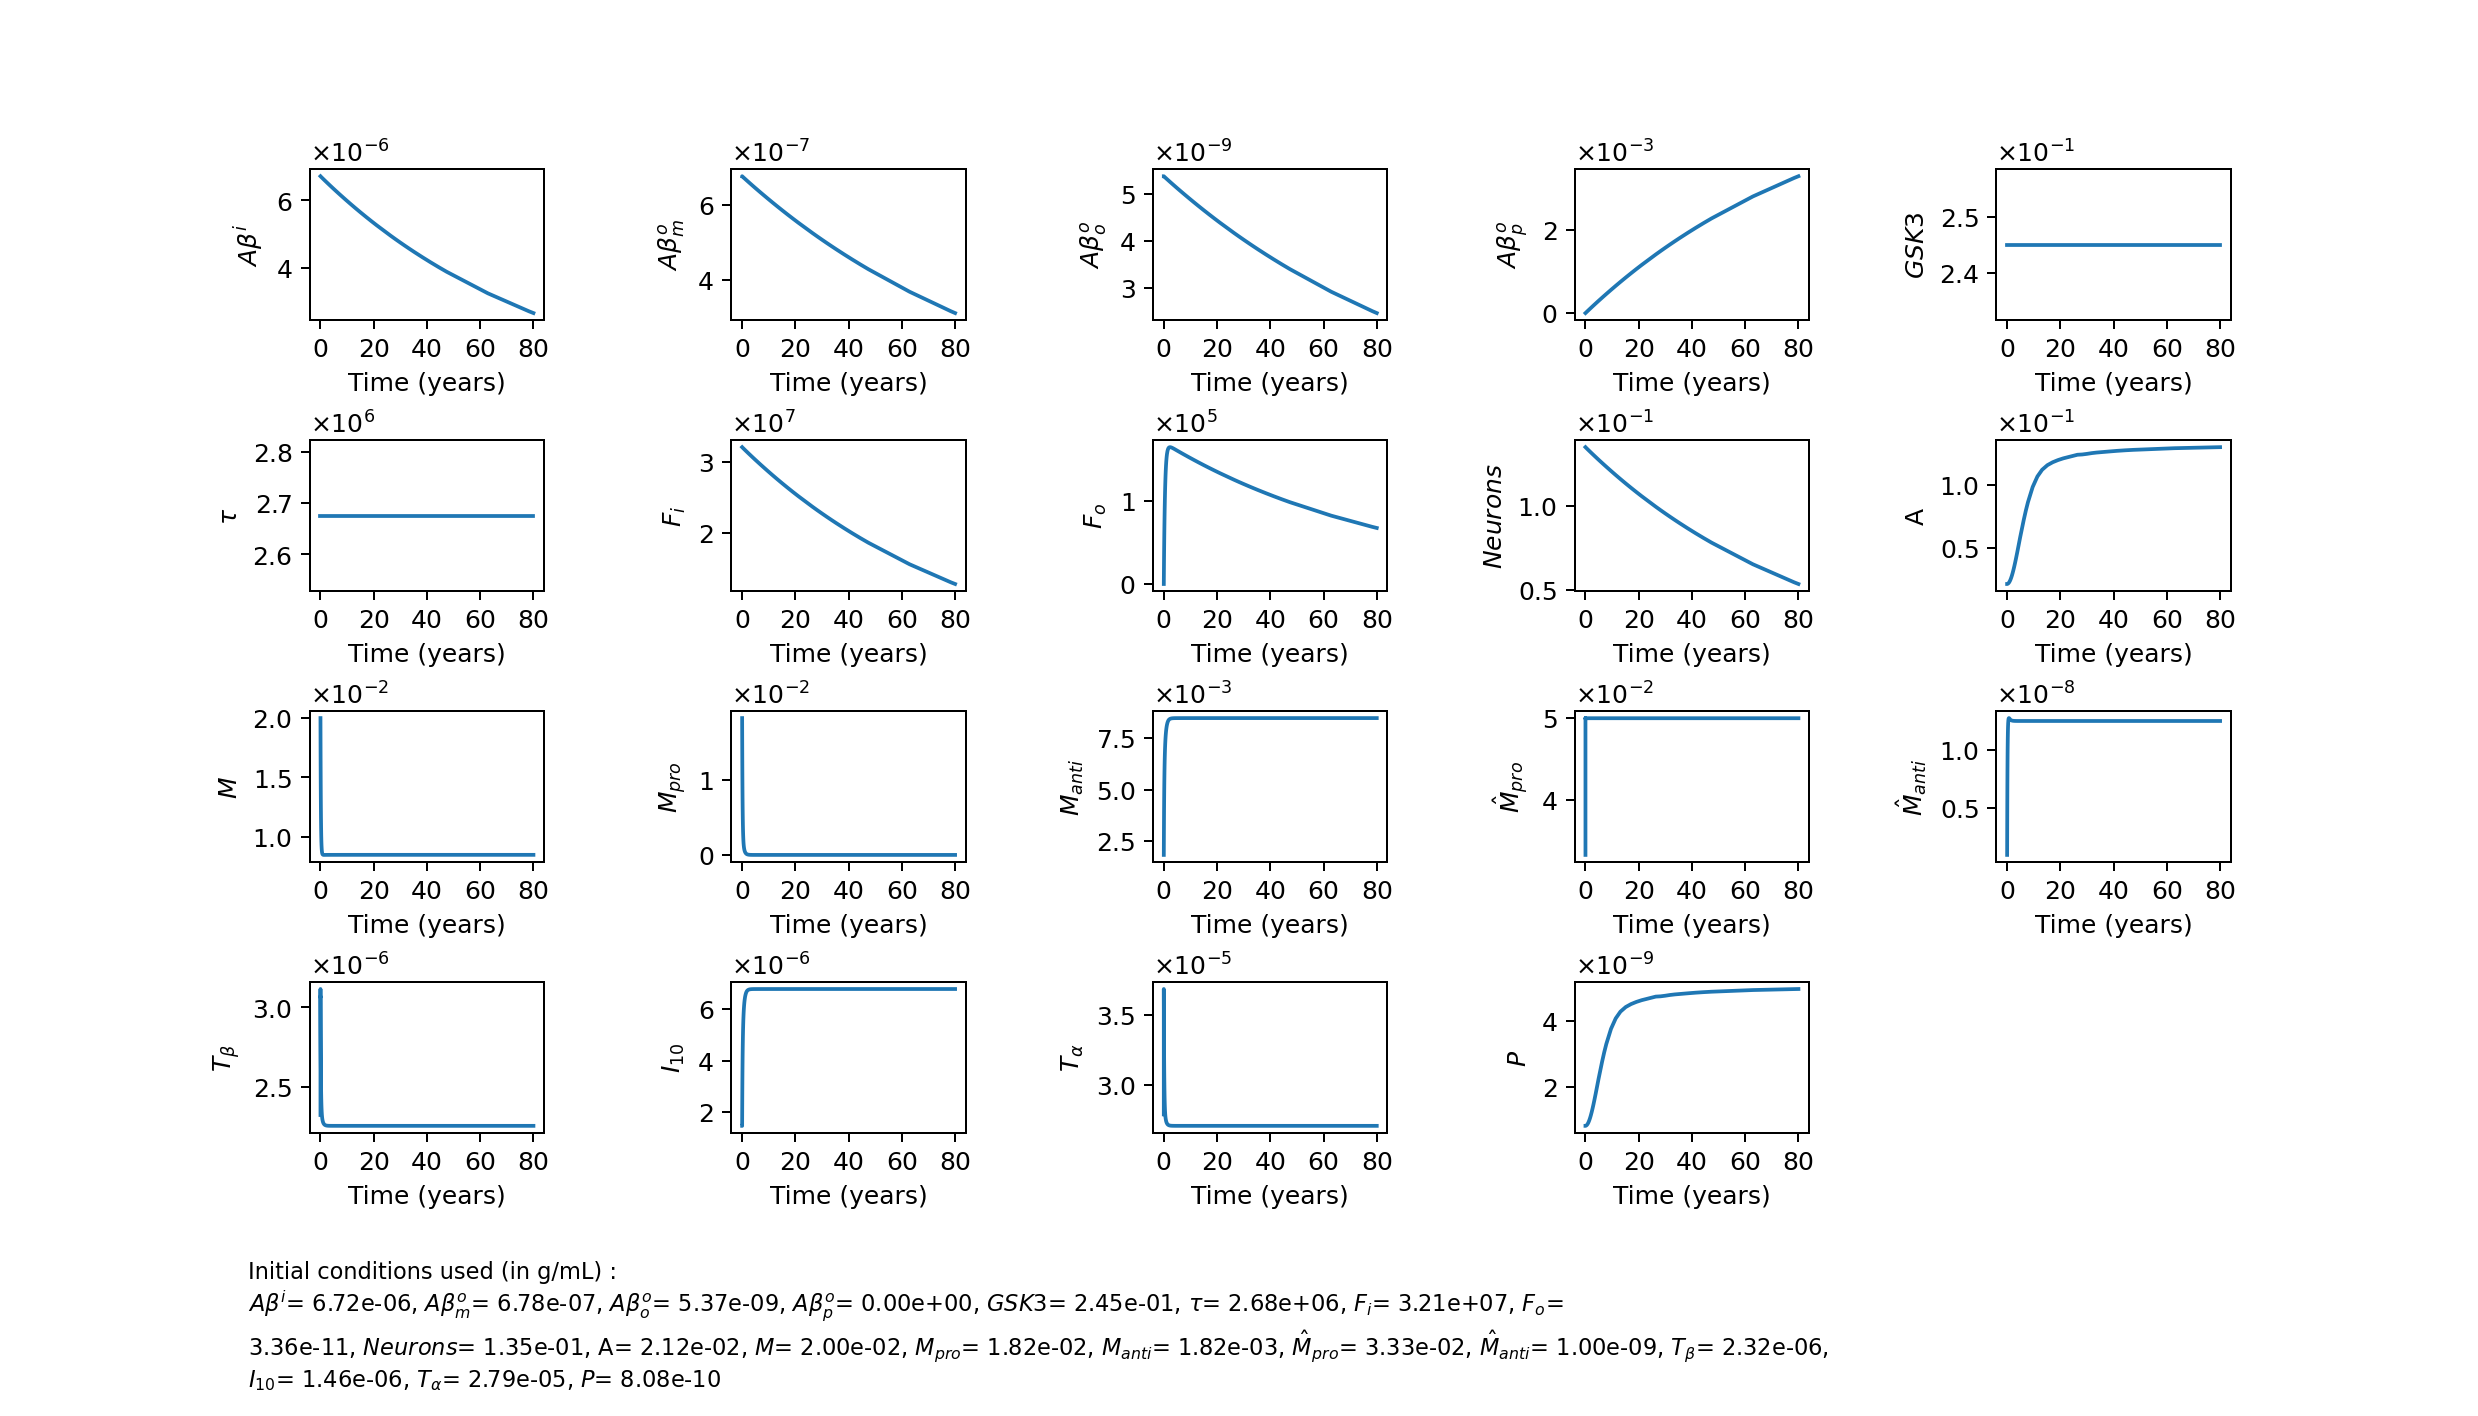
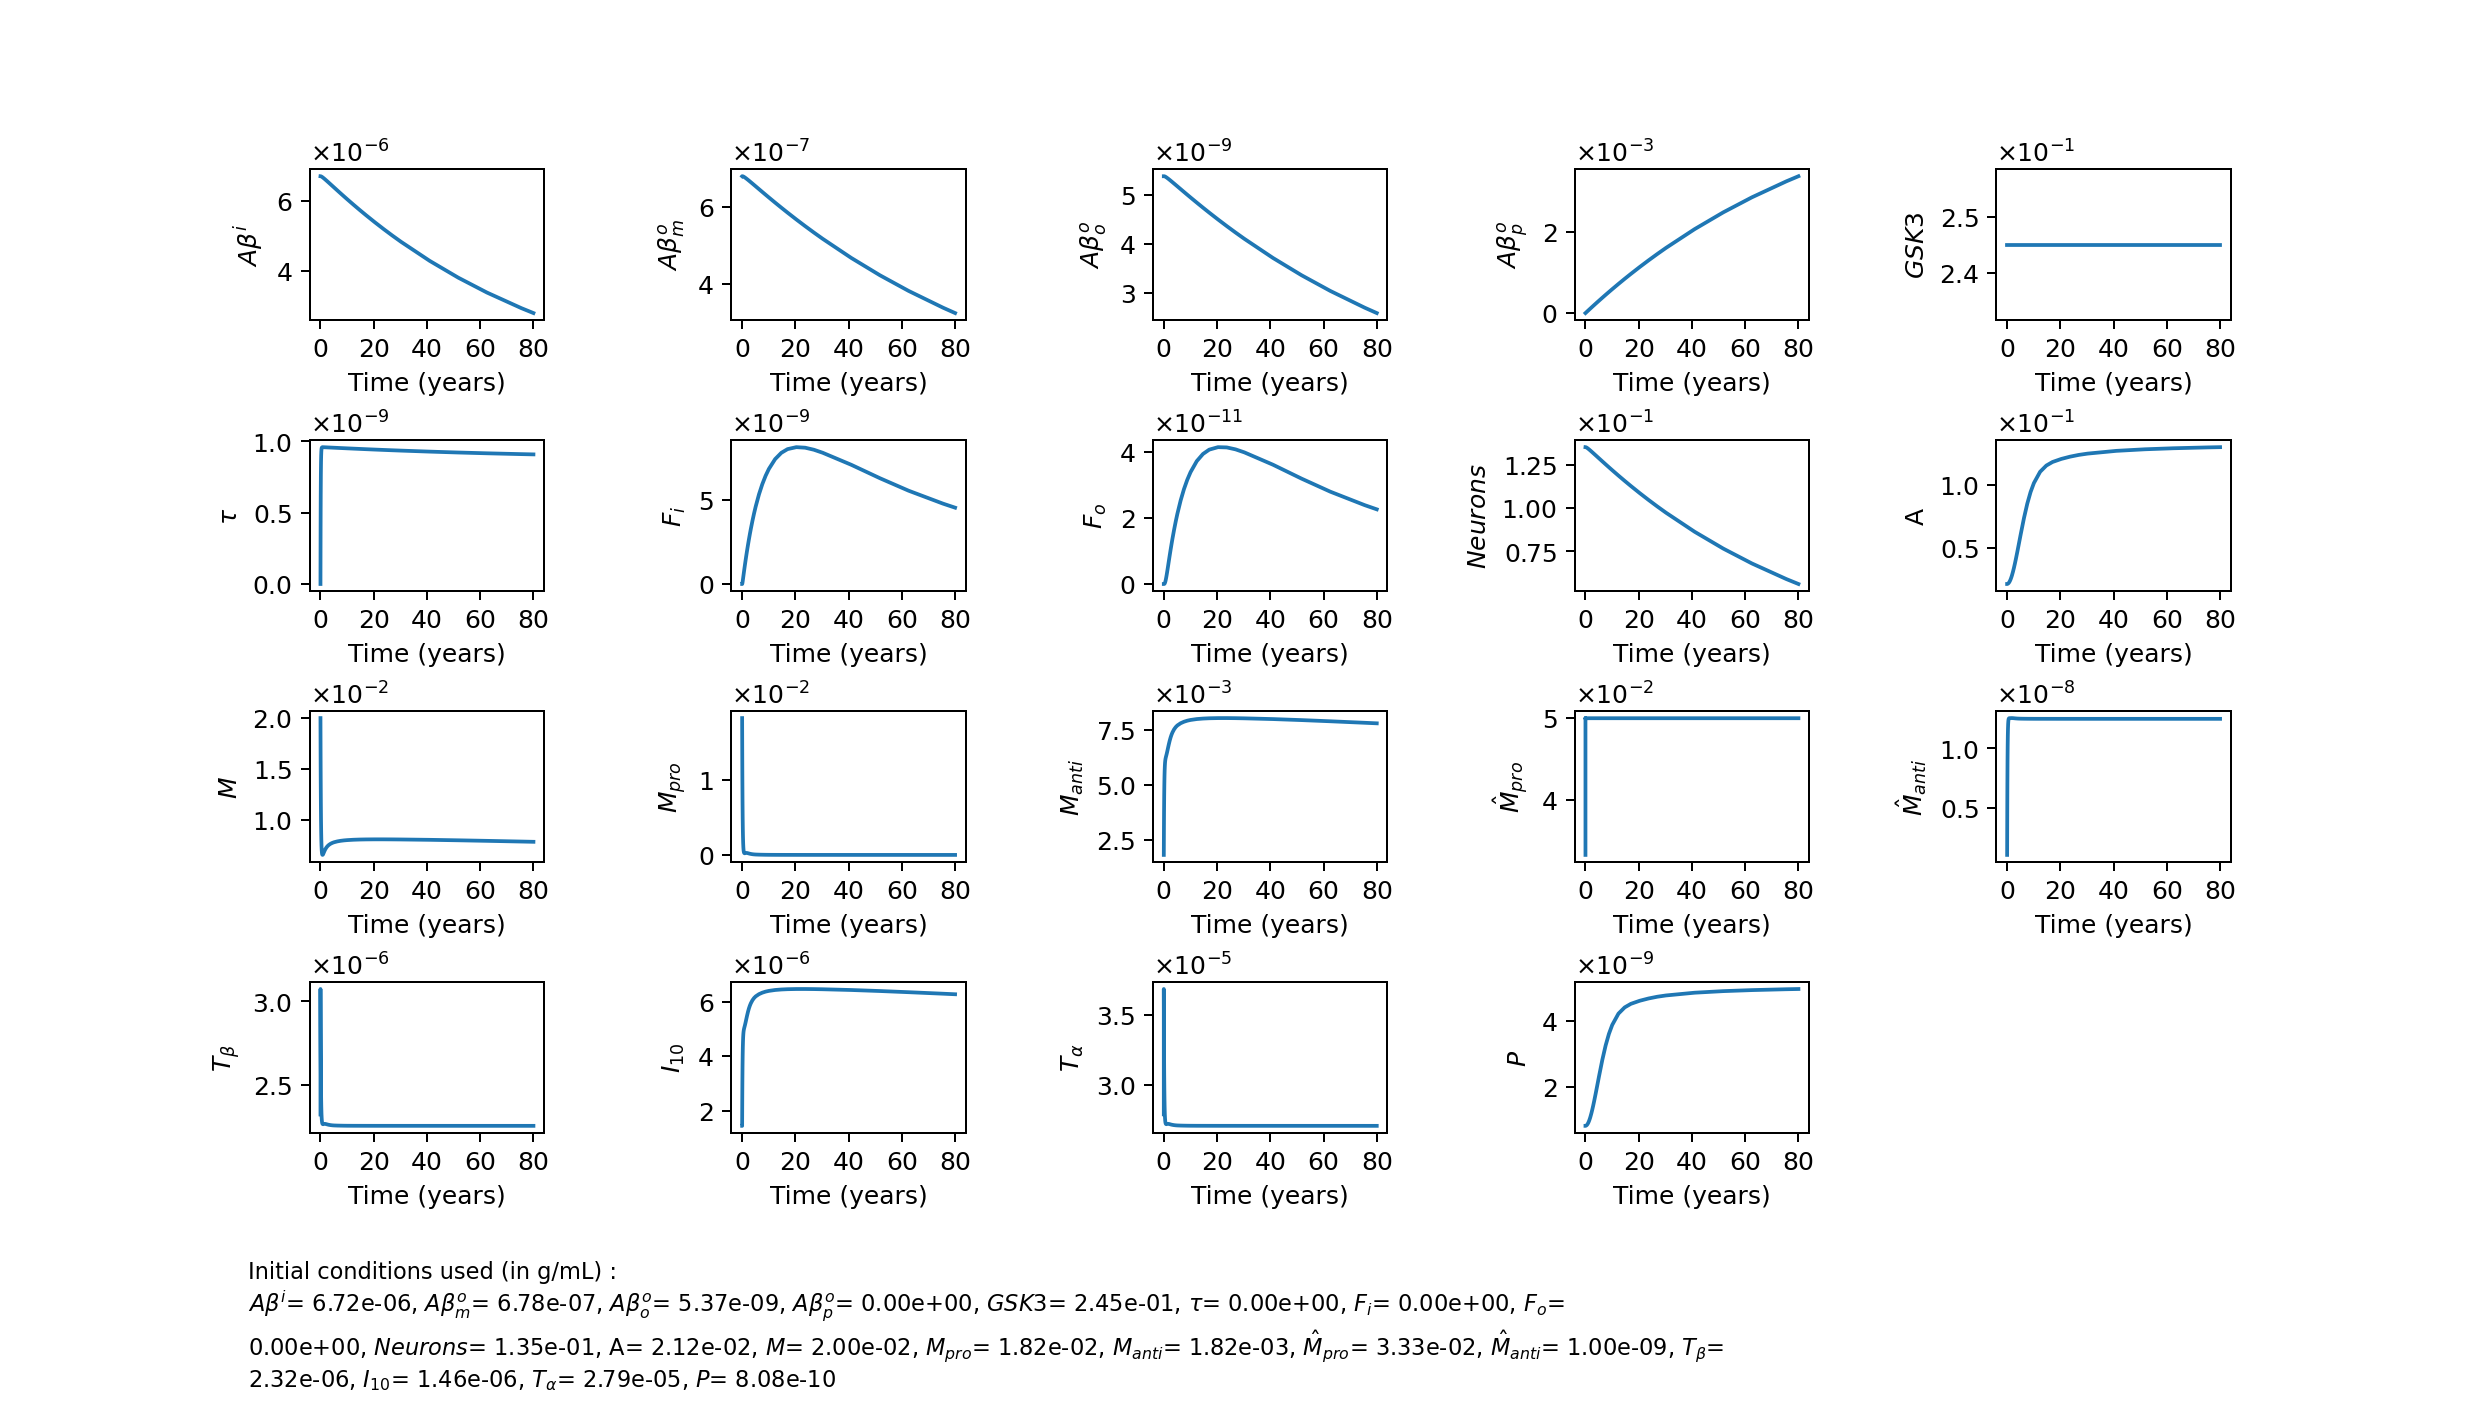
Post-rencontre 1er avril

diff --git a/parameters.py b/parameters.py
@@ -163,6 +163,9 @@ class Parameters():
         to Amyloid-Beta plaque outside."""
         # = (Rate with APOE / self.kappa_ABooABpo) - 1
 
+        self.d_ABoo = (1 / 10) * self.d_ABi  # = 0.1 * 1.76
+        """Degradation rate of Amyloid Beta42 oligomer outside (/day) [~Computation method of Hao]"""
+
         # self.theta =  0.9
         # """Relative clearance power of amyloid-beta by M_anti compared to M_pro [Value from Hao]"""
 
@@ -179,15 +182,12 @@ class Parameters():
 
         self.d_MproABpo = (1 / 80) * self.d_MprohatABpo
         """Degradation rate of Amyloid Beta42 plaque outside by proinflammatory microglias (M_pro) (/day).\n
-        Microgia are 80x slower than macrophage to degrade amyloid-beta plques."""
+        Microglia are 80x slower than macrophage to degrade amyloid-beta plaques."""
 
         self.K_ABpo = 7e-3
         """Concentration of Amyloid Beta42 plaque outside at which the destruction of AB_p^o by M_pro, M_anti and M_anti^hat 
         rate is half maximal (Michaelis-Menten constant) (g/mL) \n 
         [Value of Hao] : self.K_ABpo = 10**(3) * self.ABo = 10**(3) * 7*10**(-6) = 7 * 10**(-3) """
-
-        self.d_ABoo = (1 / 10) * self.d_ABi  # = 0.1 * 1.76
-        """Degradation rate of Amyloid Beta42 oligomer outside (/day) [~Computation method of Hao]"""
 
         ########################################
         # CONSTANTS FOR THE EQUATION FOR GSK-3 #
@@ -223,9 +223,8 @@ class Parameters():
             tauhalf : The half-life of tau proteins in humain = 23 days [Sato18]"""
         # Hao : 0.277/day (half-live = 60h)
 
-        self.lambda_Gtau = 0.25 / 3.1e-6
-        """Creation rate of tau by GSK3 (g/mL/day)\n
-        0.25 est une valeur posée par Seyed."""
+        self.lambda_Gtau = 26.3e-12
+        """Creation rate of tau by GSK3 (g/mL/day)"""
         # TODO Revoir valeur
 
         self.G_0 = (self.lambda_InsG * (self.Ins / self.Ins_0))/self.d_G
@@ -234,12 +233,12 @@ class Parameters():
         # TODO Revoir valeur
         #  2.45e-1 est la valeur approximative obtenue pour G_0 (3.1e-6 est l'ancienne cond init de GSK-3)
 
+        ############################################
+        # CONSTANTS FOR THE EQUATION FOR F_o & F_i #
+        ############################################
+
         self.d_Fi = 1.0e-2 * self.d_tau
         """Degradation rate of intracellular NFT (/day) [Computation method of Hao]"""
-
-        ######################################
-        # CONSTANTS FOR THE EQUATION FOR F_o #
-        ######################################
 
         self.d_Fo = 1/5 * self.d_tau  # 1.0e-1 * self.d_tau
         """Degradation rate of extracellular NFT (/day) [Computation method of Hao].\n
@@ -295,16 +294,17 @@ class Parameters():
 
         # TODO: Revoir. He puts : (0.015 * 0.047 - 2e-2 * 1.0e-11) / 1.0e-6 = 705 ; pk? Non...
         #  La valeur de Hao (qui était pour ABO...) = 2.3e-3 /day
-        self.lambda_ABpoM = 2.3e-3  # Diminuer la valeur ne semble pas avoir bcp d'impact.
-        """Creation rate of microglias by Amyloid Beta42 plaque outside (/day). 
+        self.kappa_ABooM = 2.3e-3  # Diminuer la valeur ne semble pas avoir bcp d'impact.
+        """Creation rate of microglias by Amyloid Beta42 oligomer outside (/day). 
         Devrait être en g/mL/day pour que le terme ait les bonnes unitées."""  # TODO Unitées (Si reste en /day => kappa)
 
-        self.K_ABpoM = 1e-7
-        """Concentration of Amyloid Beta42 plaque outside at which the creation rate of M by AB_p^o is half maximal 
+        self.K_ABooM = 1e-7
+        """Concentration of Amyloid Beta42 oligomer outside at which the creation rate of M by AB_o^o is half maximal 
         (g/mL) [I take the value in Hao K_{A_O}]."""
 
         self.d_M = 0.015
-        """Degradation rate of microglias (/day) [Here he takes it equal to the death rate of M_pro and M_anti from Hao]"""
+        """Degradation rate of microglias (/day) 
+        [Here we take it equal to the death rate of M_pro and M_anti from Hao]"""
 
         ###################################################
         # CONSTANTS FOR THE EQUATION FOR M_pro AND M_anti #

diff --git a/equations.py b/equations.py
@@ -18,7 +18,7 @@ def ODEsystem(t, y):
         y[1]   Amyloid-beta monomer outside the neurons
         y[2]   Amyloid-beta oligomers outside
         y[3]   Amyloid-beta plaque outside the neurons
-        y[4]   GSK3
+        y[4]   GSK-3
         y[5]   tau proteins
         y[6]   F_i (NFT inside the neurons)
         y[7]   F_o (NFT outside the neurons)
@@ -69,7 +69,6 @@ def ODEsystem(t, y):
     dydt[6] = p.kappa_tauFi * y[5] * (y[8] / p.N_0) - p.d_Fi * y[6] - (y[6] / y[8]) * abs(dydt[8])
 
     # NFT outside the neurons (F_o)
-    # Avant: = (y[6] / p.N_0) * abs(dydt[8]) - p.d_Fo * y[7]
     dydt[7] = (y[6] / y[8]) * abs(dydt[8]) - p.d_Fo * y[7]
 
     # Astrocytes (A)
@@ -81,24 +80,23 @@ def ODEsystem(t, y):
     # TODO:
     #  Dans Hao, ajout en fonction de ABO et non AB_out (ici plaque). Peut-être changer y[3] -> y[2]?
     #  Mais revoir comment arranger les unitées/termes pour que être certain que les deux premiers termes fonctionnent.
+    # dydt[10] = p.kappa_FoM * (y[7] / (y[7] + p.K_Fo)) * (p.M_max - y[10]) \
+    #            + p.lambda_ABpoM * (y[3] / (y[3] + p.K_ABpoM)) * (p.M_max - y[10]) - p.d_M * y[10]
     dydt[10] = p.kappa_FoM * (y[7] / (y[7] + p.K_Fo)) * (p.M_max - y[10]) \
-               + p.lambda_ABpoM * (y[3] / (y[3] + p.K_ABpoM)) * (p.M_max - y[10]) - p.d_M * y[10]
+               + p.kappa_ABooM * (y[2] / (y[2] + p.K_ABooM)) * (p.M_max - y[10]) - p.d_M * y[10]
 
     # Proinflammatory microglia (M_pro)
-    # TODO: Revoir modif. Retiré "- p.d_Mpro * y[11]", car déjà pris en compte dans l'eq pour M
-    #  Ajout terme conversion Mpro -> Manti
-    #  Modif "+ y[10] * (p.beta / (p.beta + 1)) * p.lambda_MMpro" par "+ dydt[10] * (p.beta / (p.beta + 1))" probleme
-    #  potentiel si Neurons (donc F_o, donc M) diminu trop rapidement (changement fait à partir de fig _17)
+    # TODO: Revoir modif.
+    #  "+ y[10] * (p.beta / (p.beta + 1)) * p.lambda_MMpro" par "+ dydt[10] * (p.beta / (p.beta + 1))" probleme
+    #  potentiel si Neurons (donc F_o, donc M) diminue trop rapidement (changement fait à partir de fig _17)
     dydt[11] = dydt[10] * (p.beta / (p.beta + 1)) - p.kappa_TBManti * (y[15] / (y[15] + p.K_TB)) * y[11]
 
     # Anti-inflammatory microglia (M_anti)
     # TODO: Revoir modif. Retiré "- p.d_Manti * y[12]", car déjà pris en compte dans l'eqn pour M
     #  Modif terme conversion Mpro -> Manti : "+ p.lambda_TBManti * y[15]" -> celui de Hao (fait + de sens)
     #  Modif "+ y[10] * (1 / (p.beta + 1)) * p.lambda_MMpro" par "+ dydt[10] * (1 / (p.beta + 1))" problème potentiel si
-    #   Neurons (donc F_o, donc M) diminu trop rapidement (changement fait à partir de fig _17)
+    #   Neurons (donc F_o, donc M) diminue trop rapidement (changement fait à partir de fig _17)
     dydt[12] = dydt[10] * (1 / (p.beta + 1)) + p.kappa_TBManti * (y[15] / (y[15] + p.K_TB)) * y[11]
-
-    # Avec modif faites sur eqns ci-avant, rendue à graph ...ModifEqns_8
 
     # Proinflammatory macrophages (M_pro^hat)
     # TODO: Thèse : Dit que la forme serait la même que dans Hao, mais pas vraiment. Le premier terme devrait être en

diff --git a/main.py b/main.py
@@ -33,15 +33,17 @@ y0[4] = (p.lambda_InsG * (p.Ins / p.Ins_0))/p.d_G  # = 3.1e-6
 # Seyed : 0, mais fait choc à cause du terme "p.lambda_ABiG * y[0]" où p.lambda_ABiG = 0.25
 
 # tau (tau proteins)
-y0[5] = (p.lambda_tau + p.lambda_Gtau)/p.d_tau
+# y0[5] = (p.lambda_tau + p.lambda_Gtau)/p.d_tau
+y0[5] = 0
 # (p.lambda_tau + p.lambda_Gtau * (y0[4] / p.G_0))/p.d_tau => avant fig _39
 # = 2.57e-5    # Hao: Concentration of tau proteins is, in health, 137 pg/ml and, in AD, 490 pg/ml
 
 # F_i (NFT inside the neurons)
-y0[6] = p.kappa_tauFi * y0[5] / p.d_Fi  # 3.36e-10
+# y0[6] = p.kappa_tauFi * y0[5] / p.d_Fi
+y0[6] = 0
 
 # F_o (NFT outside the neurons)
-y0[7] = 3.36e-11
+y0[7] = 0
 
 # N (Living neurons)
 y0[8] = p.N_0
@@ -55,7 +57,7 @@ Q = (p.kappa_ABpoA * y0[3] + p.kappa_TaA * T_alpha_0)
 y0[9] = (Q * p.A_max) / (Q + p.d_A)
 
 # M (Microglia)
-y0[10] = 0.02
+y0[10] = 0
 # TODO : Seyed: 0.02 vs Hao: 0.047.
 
 # M_pro (Proinflammatory microglia)
@@ -131,7 +133,7 @@ plt.text(0.1, 0.11, initcond, fontsize=9, ha='left', va='top', transform=plt.gcf
 
 # Save the plot as a .png file
 my_path = os.path.abspath('Figures')
-plt.savefig(os.path.join(my_path, "Figure_" + method + "_" + str(annees) + "y_ModifEqns_44.png"), dpi=180)
+plt.savefig(os.path.join(my_path, "Figure_" + method + "_" + str(annees) + "y_ModifEqns_45.png"), dpi=180)
 # _20 ... _27 : Figures produitent avec Nicolas.
 # 34 : 1ere avec modif simon
 plt.show()
